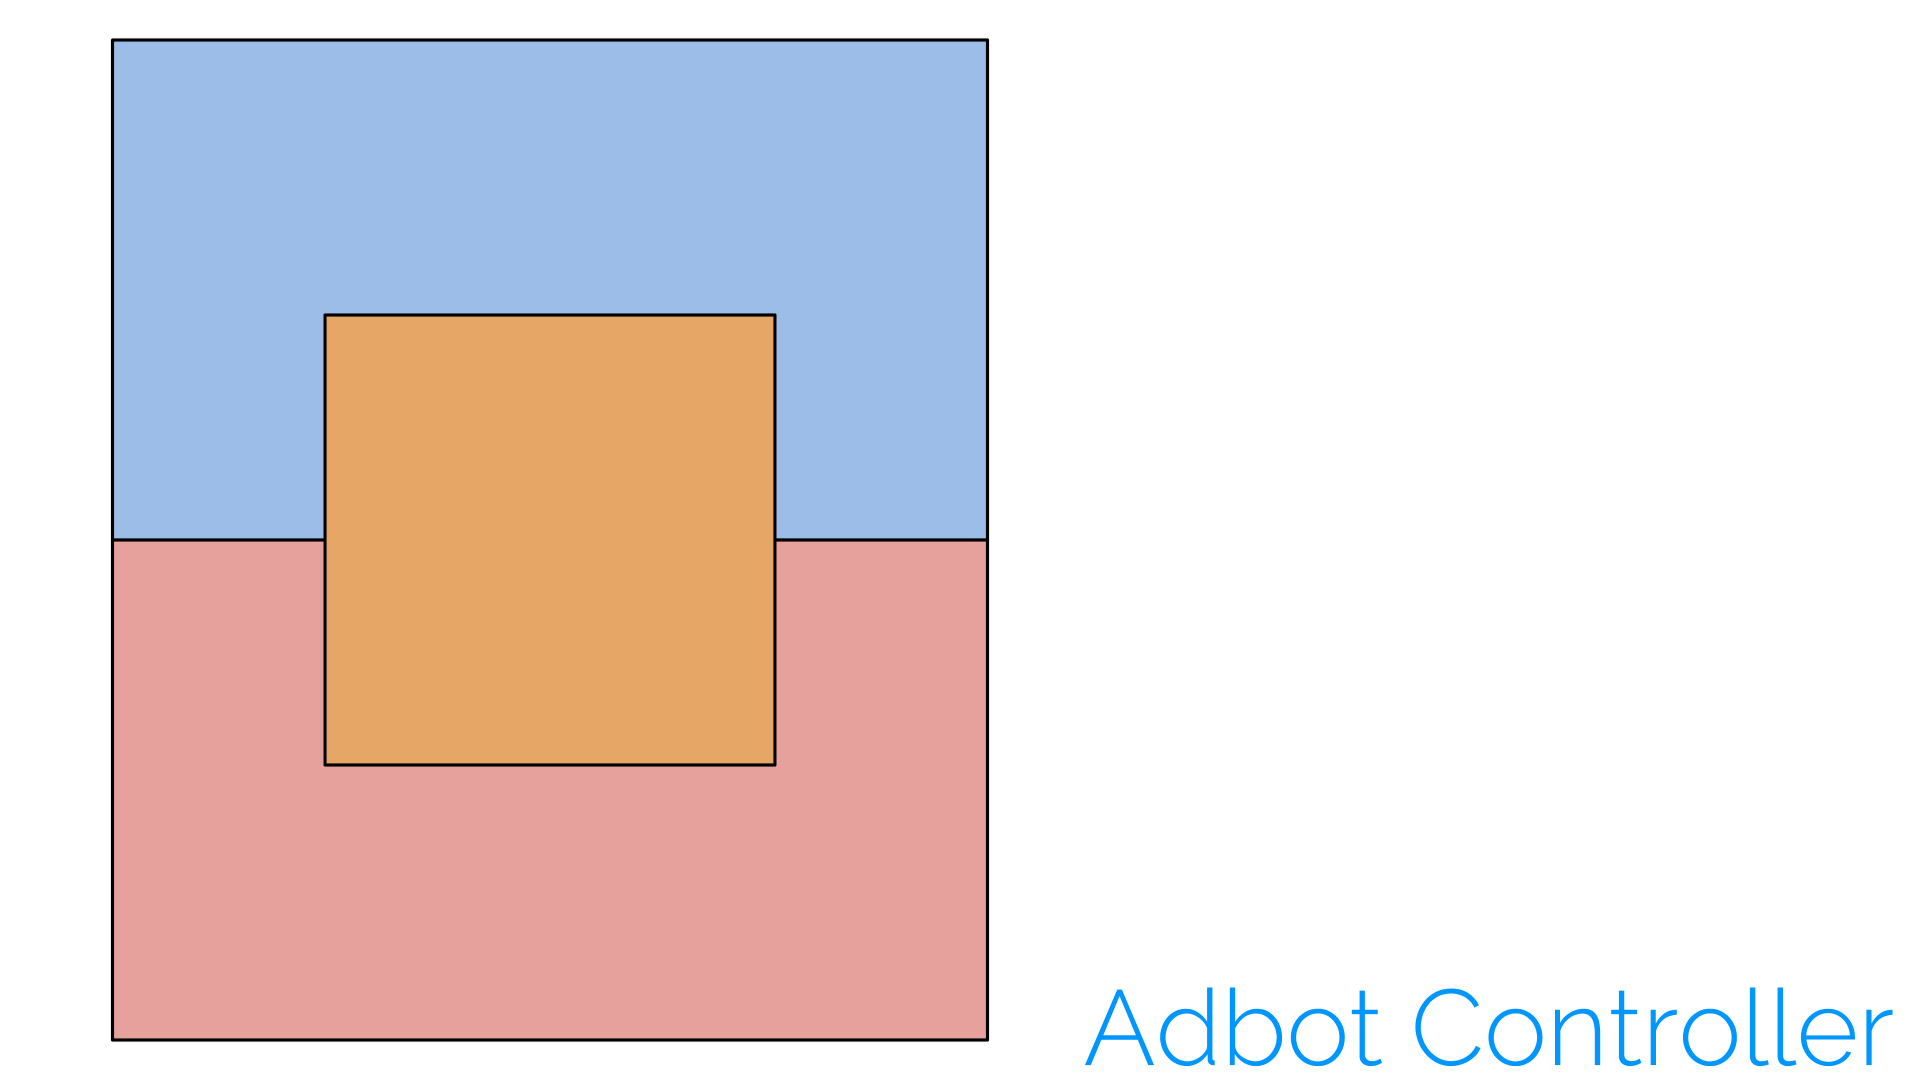
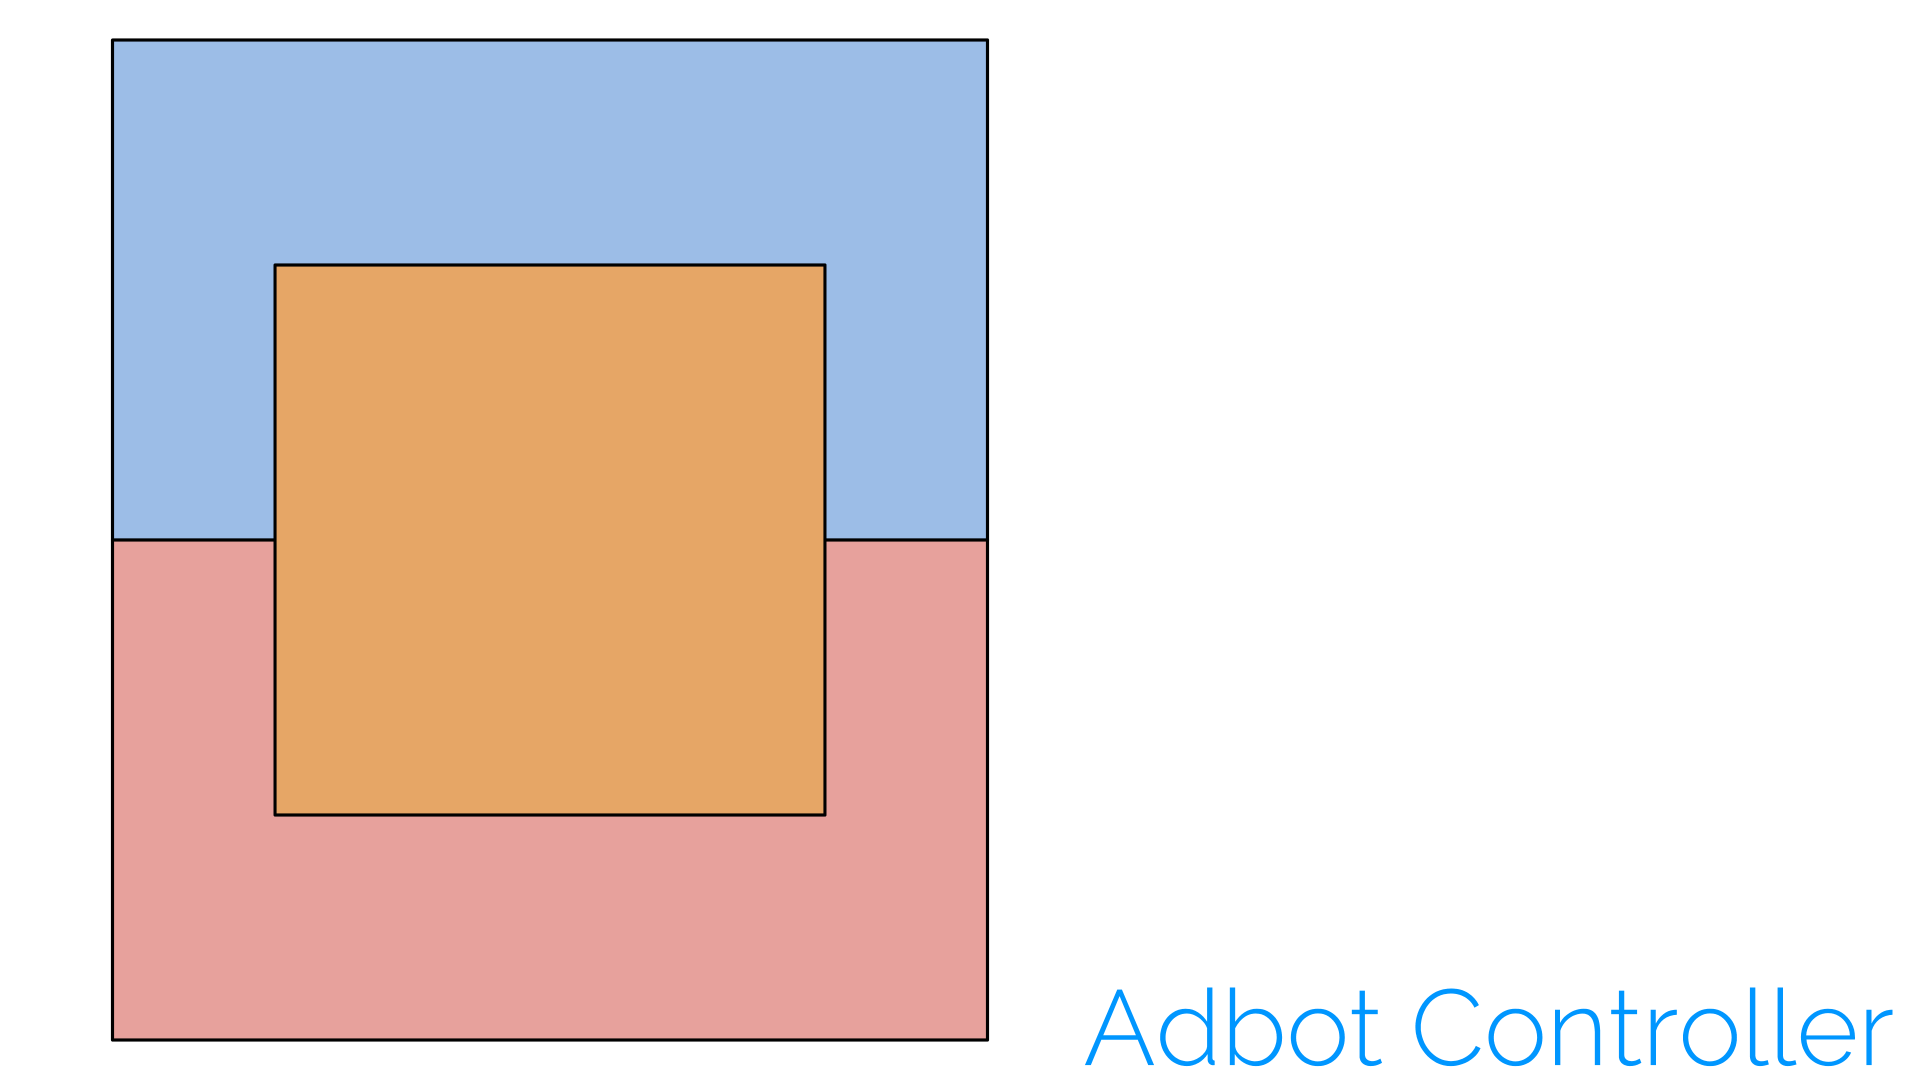
2次ビの呪術を消そうとした

Changed region(s): [[0.125, 0.2444, 0.4375, 0.7639]]

diff --git a/www/script.js b/www/script.js
@@ -180,7 +180,7 @@ class Rectangle {
 const PoleTypes = [];
 PoleTypes.push(1, 1, 1, 2, 2, 3, 2, 2, 1, 1, 1);
 const PoleCoordinates = [];
-PoleCoordinates.push([300, 940], [550, 940], [800, 940], [425, 665], [675, 665], [550, 540], [425, 415], [675, 415], [300, 140], [550, 140], [800, 140]);
+PoleCoordinates.push([300, 940], [550, 940], [800, 940], [425, 740], [675, 740], [550, 540], [425, 340], [675, 340], [300, 140], [550, 140], [800, 140]);
 const PoleTargetAngles = [];
 PoleTargetAngles.push(degToRad(-45), degToRad(0), degToRad(45), degToRad(-30), degToRad(30), degToRad(0), degToRad(-15), degToRad(15), degToRad(-20), degToRad(0), degToRad(20));//パラメータ：各ポールのプリセットangle
 const PoleTargetDuties = [];
@@ -199,6 +199,17 @@ class Pole extends Rectangle {
         updateAngle(targetAngle, ctx);
         targetDuty = PoleTargetDuties[this.no];
         updateDuty(targetDuty, ctx);
+    }
+    draw(ctx, color = this.color, isSelected = false) {
+        ctx.clearRect(this.x - this.w / 2 - 10, this.y - this.h / 2 - 10, this.w + 20, this.h + 20);
+        if (isSelected) {
+            ctx.save();
+            ctx.fillStyle = color;
+            ctx.fillStyle = "yellow";
+            ctx.fillRect(this.x - this.w / 2 - 10, this.y - this.h / 2 - 10, this.w + 20, this.h + 20);
+            ctx.restore();
+        }
+        super.draw(ctx, color);
     }
 }
 
@@ -386,6 +397,23 @@ class DirectionalPad {
     }
 }
 
+class ConnectionStatusDisplay {
+    constructor(x, y, w, h) {
+        this.x = x;
+        this.y = y;
+        this.w = w;
+        this.h = h;
+    }
+
+    draw(ctx, color, text) {
+        ctx.save();
+        ctx.clearRect(this.x, this.y, this.w, this.h);
+        ctx.fillStyle = color;
+        ctx.font = '48px "Roboto","Noto Sans JP", sans-serif';
+        ctx.fillText(text, this.x, this.y + 50);
+        ctx.restore();
+    }
+}
 const main = () => {
     const canvas = document.getElementById("canvas");
 
@@ -446,10 +474,10 @@ const main = () => {
     // items.push(directionalPadLarge.left);
     // items.push(directionalPadLarge.right);
 
-    const aimControllerByTouchRight = new AimControllerByTouch(1750, 550, 100, 100, 130, 'blue');
-    touchItems.push(aimControllerByTouchRight);
-    const aimControllerByTouchLeft = new AimControllerByTouch(1600, 550, 100, 100, -130, 'blue');
-    touchItems.push(aimControllerByTouchLeft);
+    // const aimControllerByTouchRight = new AimControllerByTouch(1750, 550, 100, 100, 130, 'blue');
+    // touchItems.push(aimControllerByTouchRight);
+    // const aimControllerByTouchLeft = new AimControllerByTouch(1600, 550, 100, 100, -130, 'blue');
+    // touchItems.push(aimControllerByTouchLeft);
 
     const stopShooting = new StopDuty(1670, 670, 300, 100, 0, 'gray');
     items.push(stopShooting);
@@ -461,38 +489,22 @@ const main = () => {
     ctx.save();
     ctx.font = '48px "Roboto Mono", "Noto Sans JP", sans-serif';
     ctx.fillText('Duty:', 1100, 800);
-    // ctx.fillText('Current Angle:', 1100, 850);
-    // ctx.fillText('Target Angle:', 1100, 900);
     ctx.fillText('ポールの距離:', 1100, 850);
     ctx.fillText('ポールのずれ:', 1100, 900);
+    ctx.restore();
 
+    const connectionStatusDisplay = new ConnectionStatusDisplay(1100, 900, 820, 60);
     ros.on('connection', function () {
-        ctx.save();
-        ctx.clearRect(1100, 900, 820, 60);
-        ctx.fillStyle = "black";
-        ctx.font = '48px "Roboto", "Noto Sans JP", sans-serif';
-        ctx.fillText('接続成功', 1100, 950);
-        ctx.restore();
+        connectionStatusDisplay.draw(ctx, 'black', '接続成功');
     });
 
     ros.on('error', function (error) {
-        ctx.save();
-        ctx.clearRect(1100, 900, 820, 60);
-        ctx.fillStyle = "red";
-        ctx.font = '48px "Roboto", "Noto Sans JP", sans-serif';
-        ctx.fillText('接続失敗', 1100, 950);
-        ctx.restore();
+        connectionStatusDisplay.draw(ctx, 'red', '接続失敗');
     });
 
     ros.on('close', function () {
-        ctx.save();
-        ctx.clearRect(1100, 900, 820, 60);
-        ctx.fillStyle = "red";
-        ctx.font = '48px "Roboto","Noto Sans JP", sans-serif';
-        ctx.fillText('接続終了', 1100, 950);
-        ctx.restore();
+        connectionStatusDisplay.draw(ctx, 'red', '接続終了');
     });
-    ctx.restore();
 
 
 

diff --git a/www/index.html b/www/index.html
@@ -1,5 +1,5 @@
 <!DOCTYPE html>
-<html lang="en">
+<html lang="ja">
 
 <head>
     <meta charset="UTF-8">
